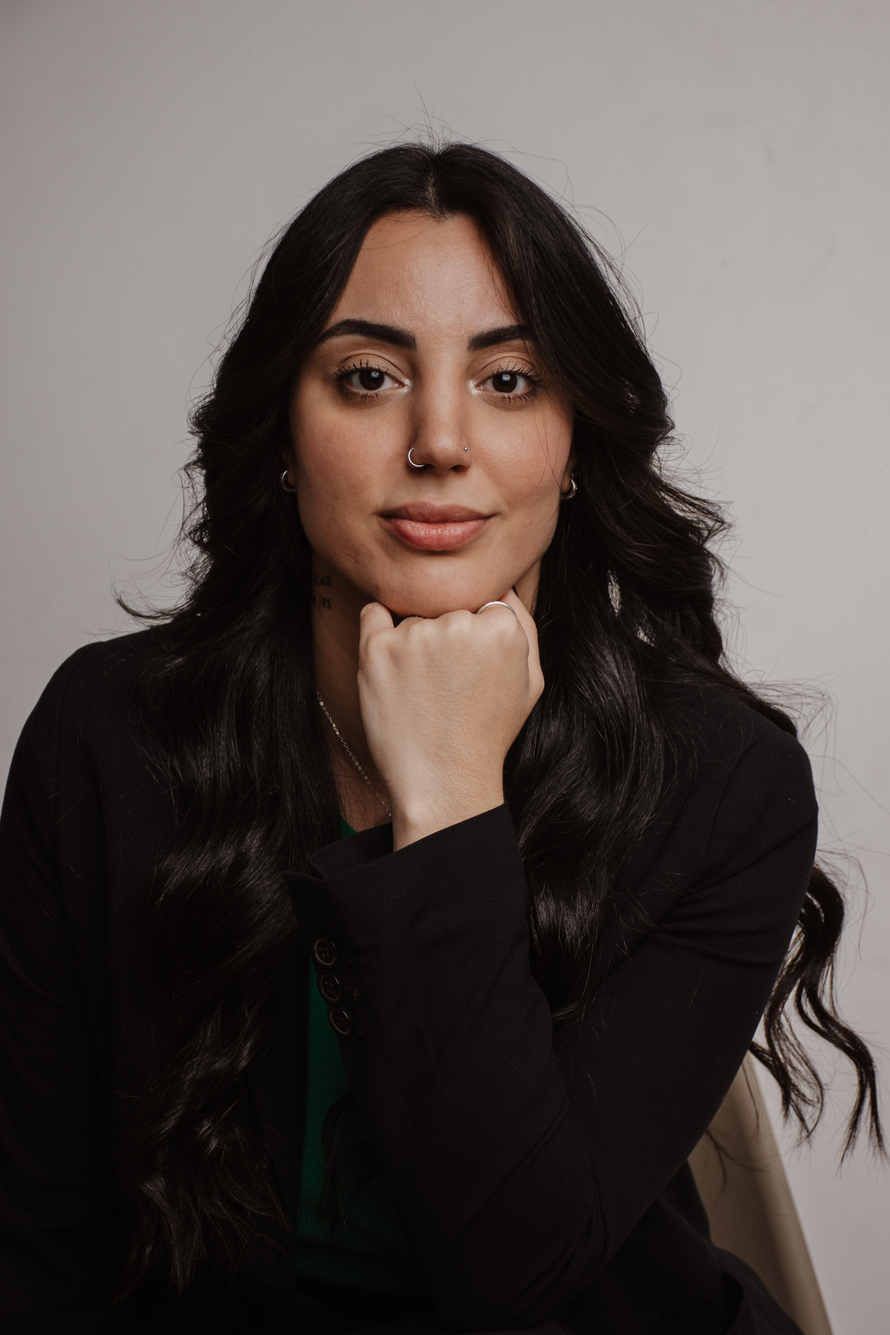
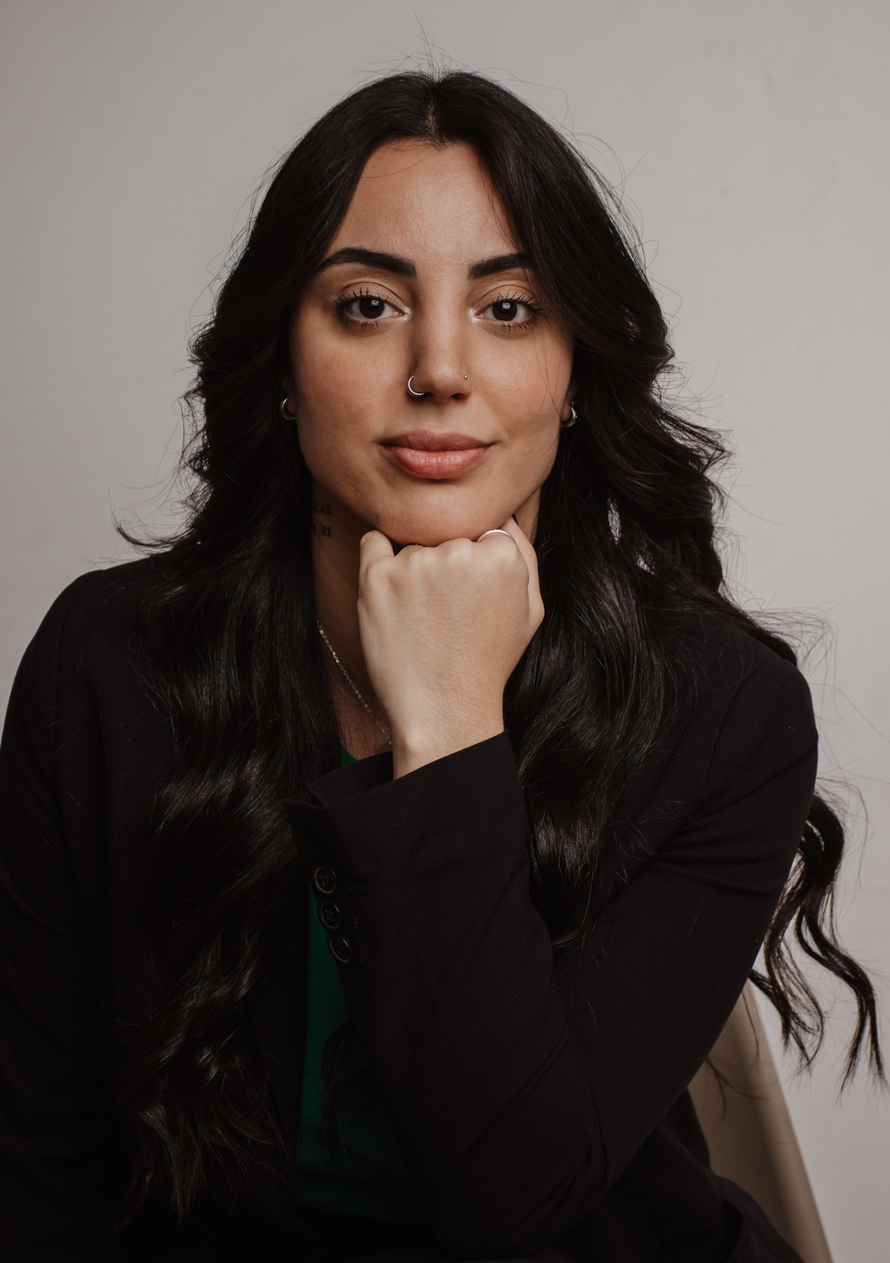
Update

diff --git a/assets/css/main.css b/assets/css/main.css
@@ -78,7 +78,7 @@ html {
   box-sizing: inherit; }
 
 body {
-  background: #ffffff; }
+  background: #F2F0EF; }
   body.is-preload *, body.is-preload *:before, body.is-preload *:after, body.is-resizing *, body.is-resizing *:before, body.is-resizing *:after {
     -moz-animation: none !important;
     -webkit-animation: none !important;
@@ -2108,67 +2108,26 @@ button,
         top: 0; } }
 
 /* Banner */
+/* Banner */
 #banner {
-  padding: 6em 0 4em 0;
+  padding: 6em 0 4em 0 ;
   display: -moz-flex;
   display: -webkit-flex;
   display: -ms-flex;
-  display: flex;
-}
-
-#banner h1 {
-  margin-top: -0.125em;
-}
-
-#banner .content {
-  -moz-flex-grow: 1;
-  -webkit-flex-grow: 1;
-  -ms-flex-grow: 1;
-  flex-grow: 1;
-  -moz-flex-shrink: 1;
-  -webkit-flex-shrink: 1;
-  -ms-flex-shrink: 1;
-  flex-shrink: 1;
-  width: 50%;
-}
-
-#banner .image {
-  -moz-flex-grow: 0;
-  -webkit-flex-grow: 0;
-  -ms-flex-grow: 0;
-  flex-grow: 0;
-  -moz-flex-shrink: 0;
-  -webkit-flex-shrink: 0;
-  -ms-flex-shrink: 0;
-  flex-shrink: 0;
-  margin: 0 0 4em 4em;
-  width: 50%;
-  height: 400px;         /* Tamanho fixo da imagem */
-  overflow: hidden;      /* Corta o que passar da altura */
-  border-radius: 10px;   /* Opcional: cantos arredondados */
-}
-
-#banner .image img {
-  width: 100%;
-  height: 100%;
-  object-fit: cover;      /* Mantém proporção e corta o excesso */
-  object-position: center 30%; /* Mostra o topo da imagem */
-}
-
-/* Ajustes para modo retrato (mobile) */
-@media screen and (orientation: portrait) {
-  #banner {
-    -moz-flex-direction: column-reverse;
-    -webkit-flex-direction: column-reverse;
-    -ms-flex-direction: column-reverse;
-    flex-direction: column-reverse;
-  }
-
-  #banner h1 br {
-    display: none;
-  }
-
+  display: flex; }
+  #banner h1 {
+    margin-top: -0.125em; }
   #banner .content {
+    -moz-flex-grow: 1;
+    -webkit-flex-grow: 1;
+    -ms-flex-grow: 1;
+    flex-grow: 1;
+    -moz-flex-shrink: 1;
+    -webkit-flex-shrink: 1;
+    -ms-flex-shrink: 1;
+    flex-shrink: 1;
+    width: 50%; }
+  #banner .image {
     -moz-flex-grow: 0;
     -webkit-flex-grow: 0;
     -ms-flex-grow: 0;
@@ -2177,21 +2136,64 @@ button,
     -webkit-flex-shrink: 0;
     -ms-flex-shrink: 0;
     flex-shrink: 0;
-    width: 100%;
-  }
-
-  #banner .image {
-    margin: 0 0 4em 0;
-    width: 100%;
-    height: 400px; /* Mesmo tamanho no mobile */
-  }
+    display: block;
+    margin: 0 0 2em 4em;
+    width: 45%; }
+    #banner .image img {
+      height: 90%;
+      -moz-object-fit: cover;
+      -webkit-object-fit: cover;
+      -ms-object-fit: cover;
+      object-fit: cover;
+      -moz-object-position: center;
+      -webkit-object-position: center;
+      -ms-object-position: center;
+      object-position: center;
+      width: 85%; }
+  @media screen and (orientation: portrait) {
+    #banner {
+      -moz-flex-direction: column-reverse;
+      -webkit-flex-direction: column-reverse;
+      -ms-flex-direction: column-reverse;
+      flex-direction: column-reverse; }
+      #banner h1 br {
+        display: none; }
+      #banner .content {
+        -moz-flex-grow: 0;
+        -webkit-flex-grow: 0;
+        -ms-flex-grow: 0;
+        flex-grow: 0;
+        -moz-flex-shrink: 0;
+        -webkit-flex-shrink: 0;
+        -ms-flex-shrink: 0;
+        flex-shrink: 0;
+        width: 100%; }
+      #banner .image {
+        -moz-flex-grow: 0;
+        -webkit-flex-grow: 0;
+        -ms-flex-grow: 0;
+        flex-grow: 0;
+        -moz-flex-shrink: 0;
+        -webkit-flex-shrink: 0;
+        -ms-flex-shrink: 0;
+        flex-shrink: 0;
+        margin: 0 0 4em 0;
+        height: 25em;
+        max-height: 50vh;
+        min-height: 18em;
+        width: 100%; } 
+      
+        #banner .image img {
+  width: 100%;
+  height: 120%;
+  object-fit: cover;
+  object-position: center 19%;
 }
 
-@media screen and (orientation: portrait) and (max-width: 200px) {
-  #banner .image {
-    max-height: 35vh;
-  }
-}
+      }
+  @media screen and (orientation: portrait) and (max-width: 200px) {
+    #banner .image {
+      max-height: 35vh; } }
 
 
 /* Footer */

diff --git a/index.html b/index.html
@@ -41,10 +41,10 @@
 							<!-- Banner -->
 								<section id="banner">
 									<div class="content">
-										<header>
-											<h1>Olá, que bom ter você por aqui. </h1>
-											<h1>Seja muito bem-vindo(a) ao meu <br />
-											portfólio de Análise de Dados!</h1>
+										<header><br/>
+											<h1>Olá, que bom ter você por aqui. </h1><br/> 
+											<h2>Seja muito bem-vindo(a) ao meu
+											portfólio!</h2> <br/>
 											
 										</header>
 										<p>Aqui, compartilho projetos que refletem minha capacidade de resolver problemas de negócios, utilizando conceitos e ferramentas de análise de dados, através de projetos com dados públicos.<br />
